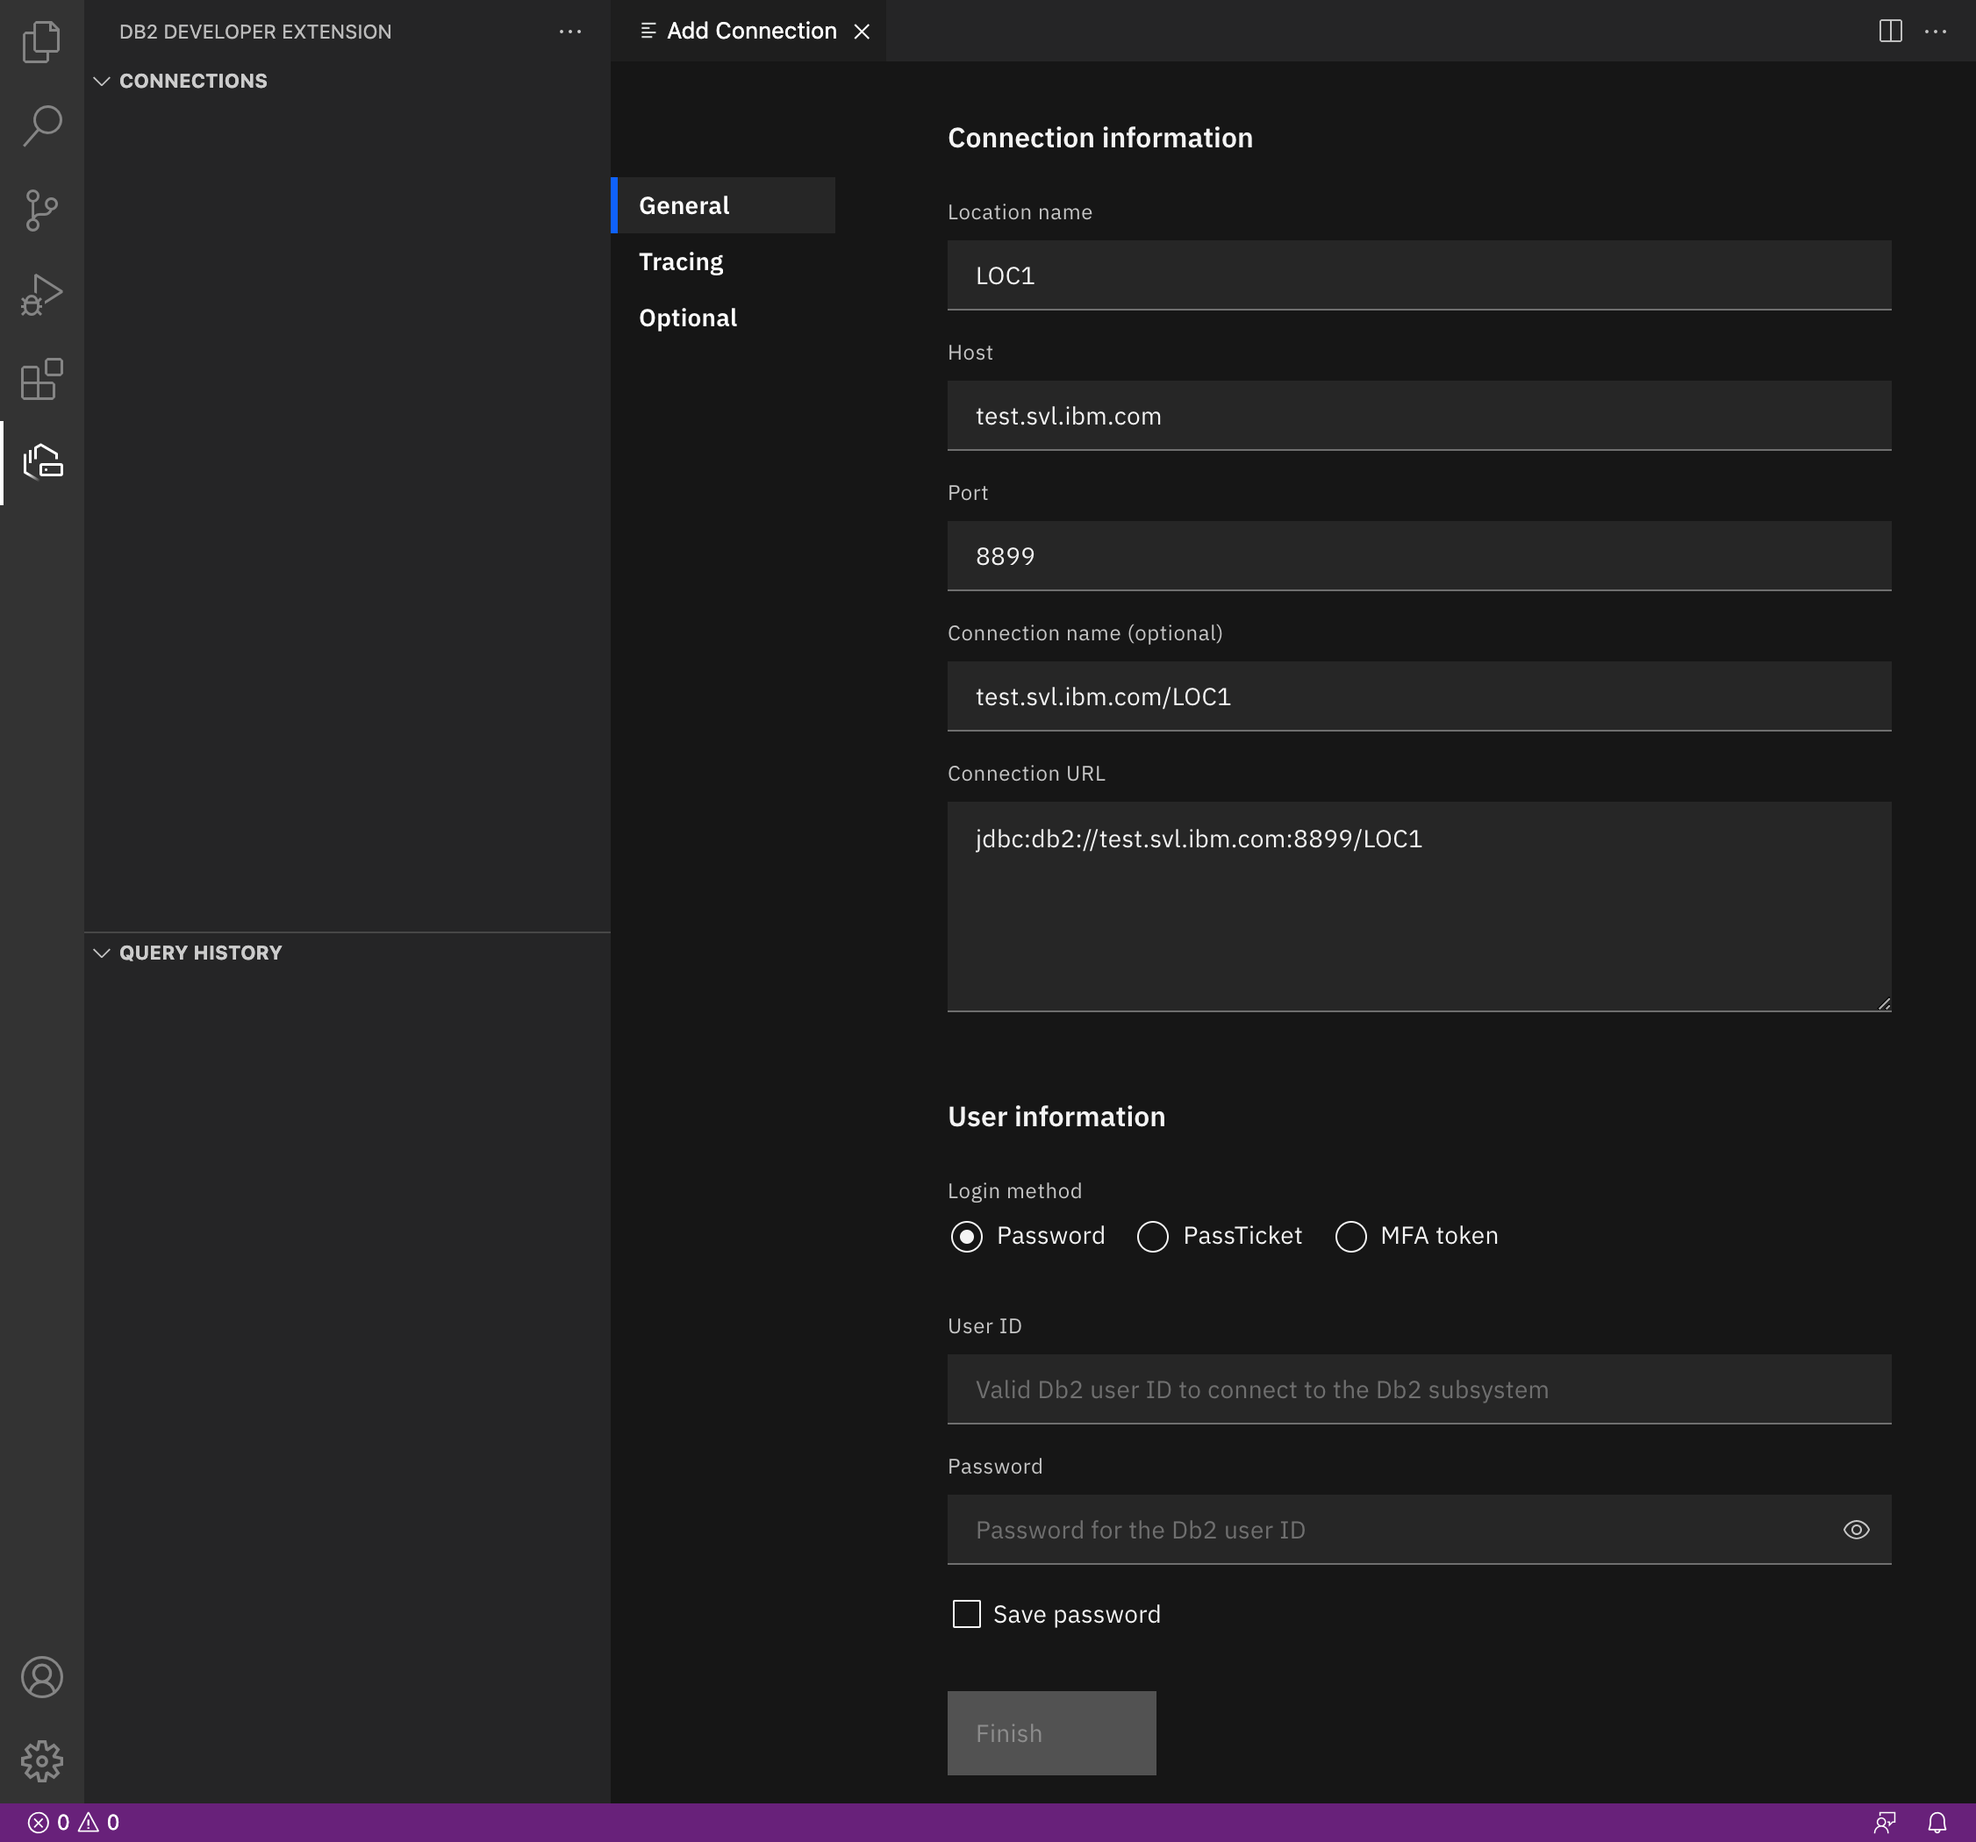
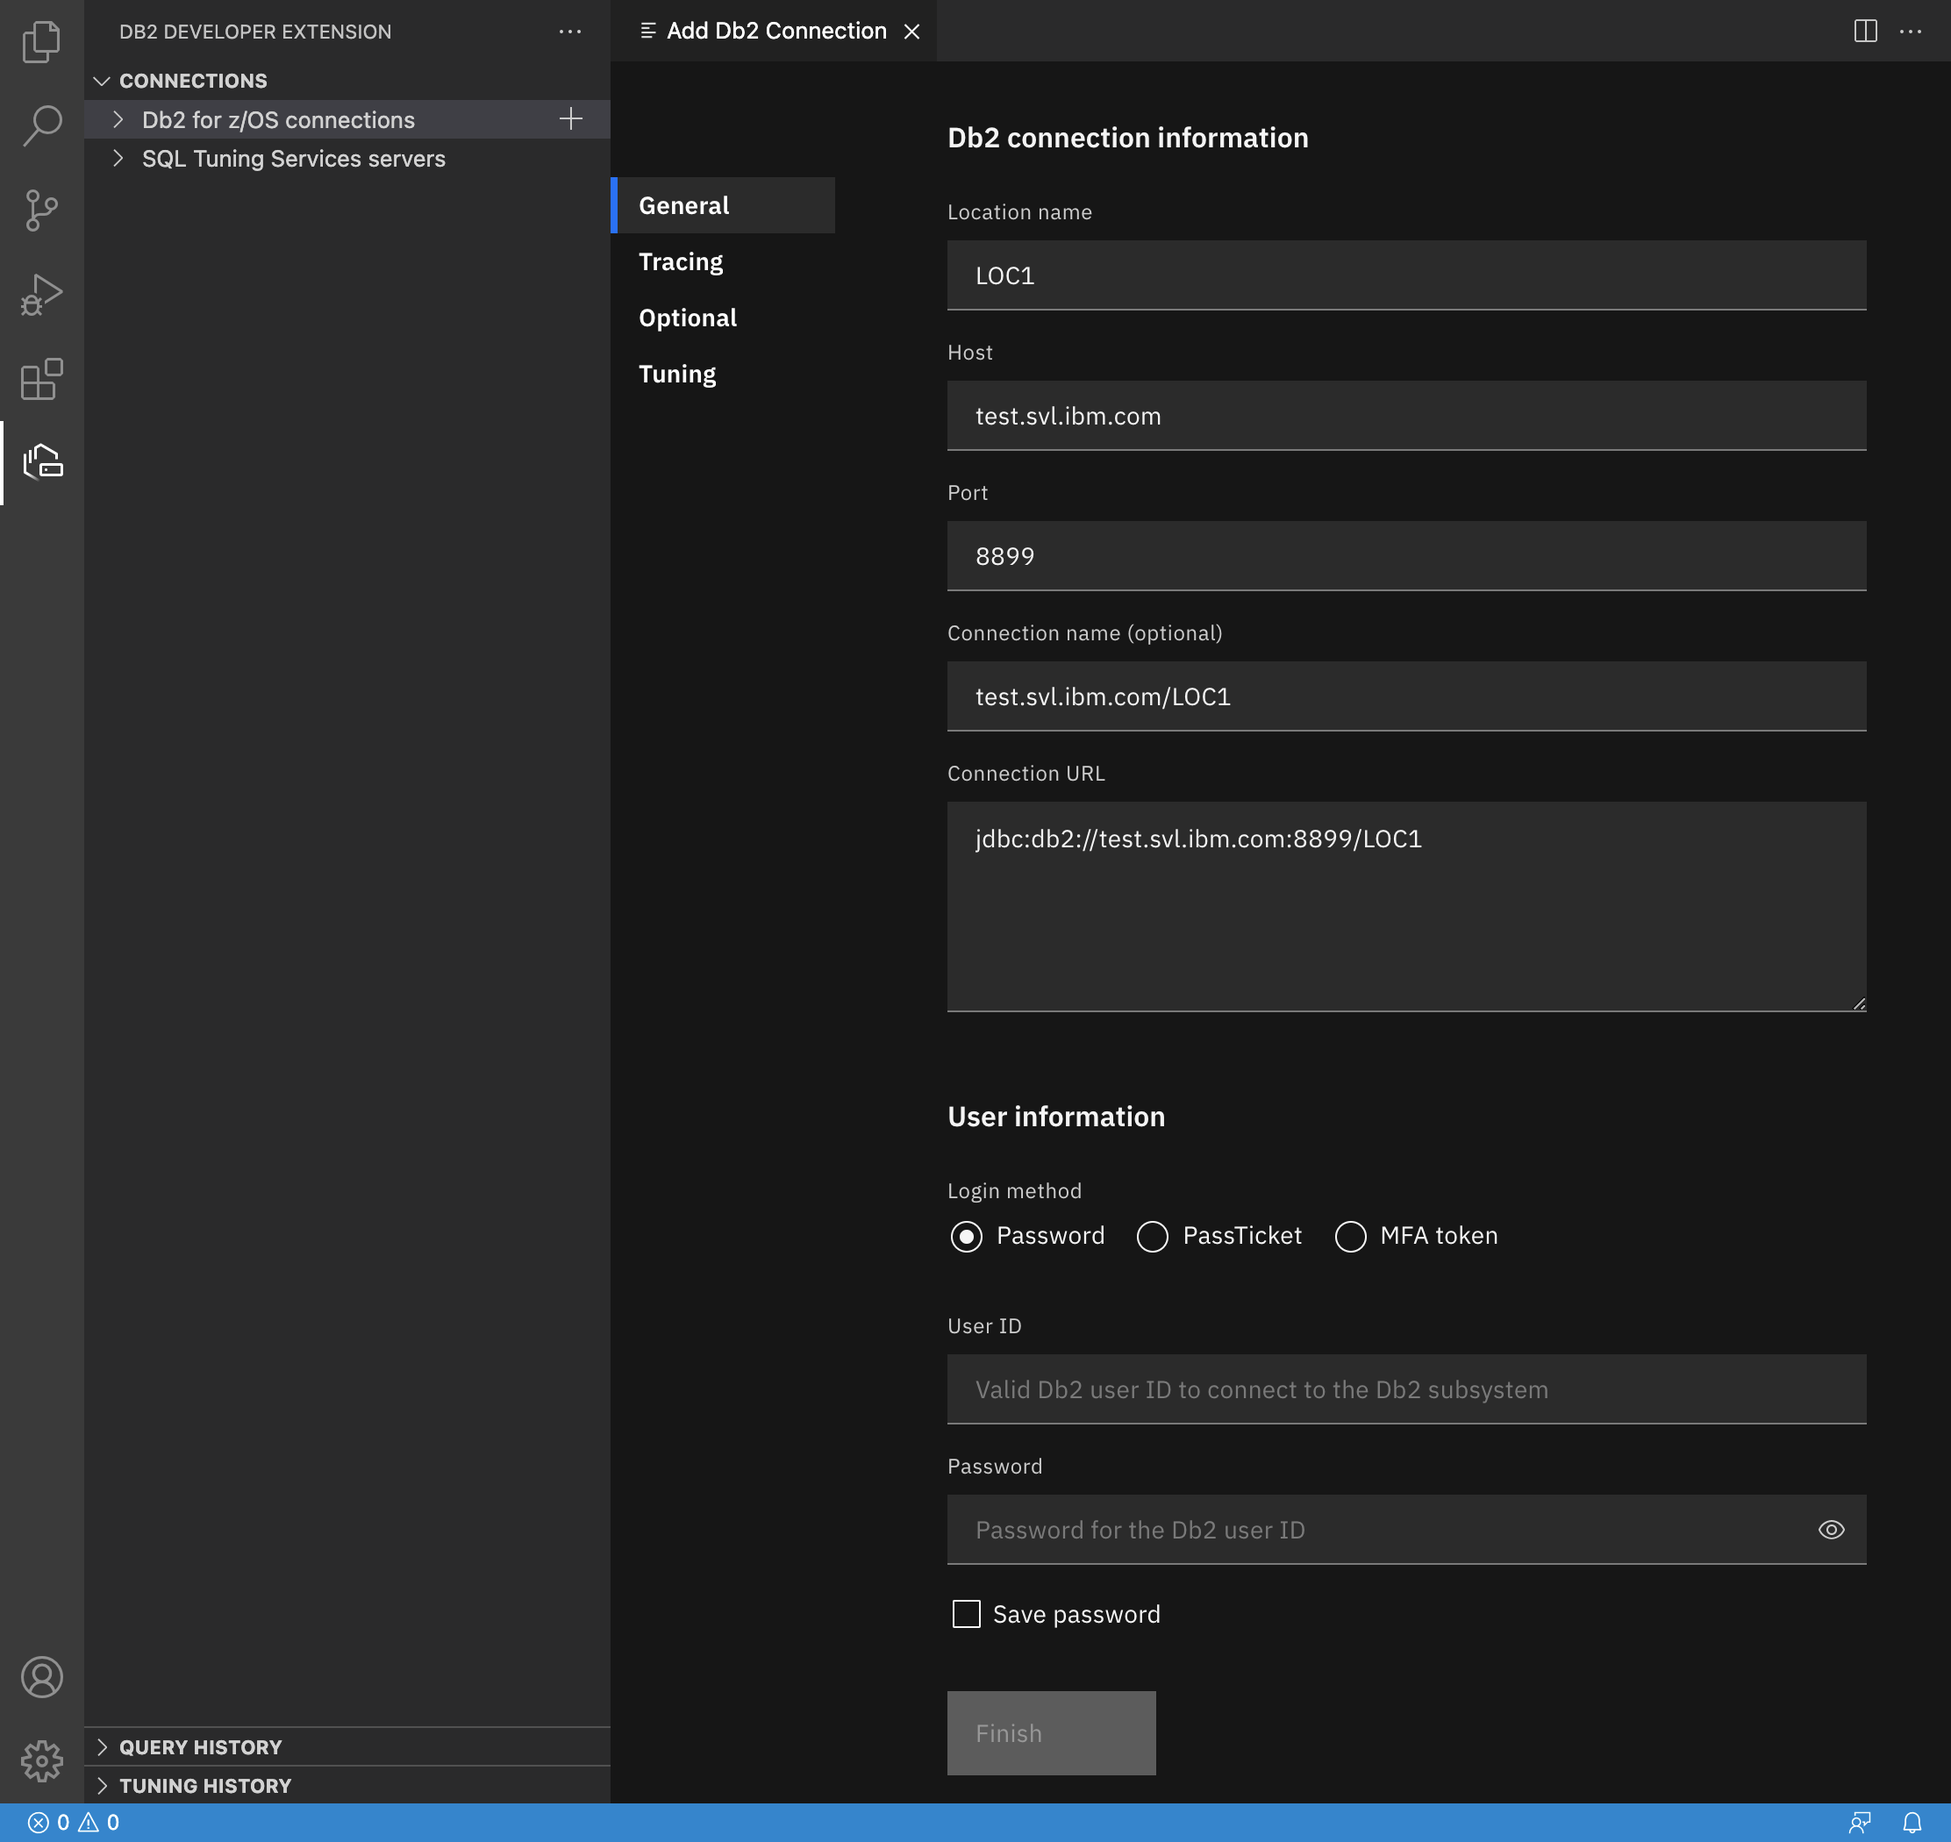
add jdbc troubleshooting and update connection img

diff --git a/docs/troubleshooting/jdbc-driver-errors.md b/docs/troubleshooting/jdbc-driver-errors.md
@@ -1,0 +1,15 @@
+---
+title: "JDBC driver errors"
+---
+
+# {{ page.title }}
+
+This article provides potential solutions to common [JDBC driver errors](https://www.ibm.com/docs/en/db2-for-zos/12?topic=jsri-error-codes-issued-by-data-server-driver-jdbc-sqlj) that can occur when connecting to a Db2 for z/OS subsystem.
+
+## -4499
+> A communication error occurred during operations on the connection's underlying socket, socket input stream, or socket output stream. Error location: Reply.fill() - insufficient data (-1). **Message: xxxxxxxxxxx** ERRORCODE=-4499, SQLSTATE=08001
+
+If the accompanying message is `Message: Connection Reset`, and Db2 is correctly configured to receive SSL connections, make sure that the SSL properties are defined in the Db2 connection profile and that the `sslConnection` parameter is set to `true`.
+![Commit after each statement Processing continues results]({{site.baseurl}}/assets/images/troubleshoot-4499.png)
+
+For more information about error code -4499, check out [this IBM Support doc](https://www.ibm.com/support/pages/faq-jdbc-errorcode-4499-connectivity).
